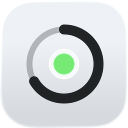
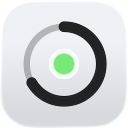
[优化] 图标环放大至Apple圆形网格安全框,中心尺寸保持
- 环半径 277→299(外缘 342 顶到官方圆形网格框),弧宽恢复 86,轨道 52
- 绿点(84)与背板(122)不随环放大,环与中心呼吸空间更足
- docs 四张文档图标按扁平管线同步重出

Changed region(s): [[0.1562, 0.1562, 0.8438, 0.8438]]

diff --git a/scripts/export_icon_layers.swift b/scripts/export_icon_layers.swift
@@ -14,13 +14,13 @@ guard args.count == 3, kinds.contains(args[1]) else {
 let canvas: CGFloat = 1024
 let center = CGPoint(x: canvas / 2, y: canvas / 2)
 
-// 几何规范：源码 18px 画布按比例放大到图标网格，整体再放大 15% 提升图标存在感
+// 几何规范：源码 18px 画布按比例放大到图标网格,环外缘顶到 Apple 圆形安全框(半径342)
 // 源码: ring dia 13, arc lineWidth ~2.31(75%负载), track 1.35, core dia ~3.95, backplate +1.8
-let ringRadius: CGFloat = 277
-let arcWidth: CGFloat = 80        // 86 收至 80,减弱圆头端点在缺口处的视觉膨胀
-let trackWidth: CGFloat = 48      // 1.35/2.31 × 80
-let dotRadius: CGFloat = 84       // 73 × 1.15
-let backplateRadius: CGFloat = 122 // 106 × 1.15
+let ringRadius: CGFloat = 299     // 299 + 86/2 = 342 = 官方圆形网格框
+let arcWidth: CGFloat = 86
+let trackWidth: CGFloat = 52      // 1.35/2.31 × 86
+let dotRadius: CGFloat = 84       // 中心保持不随环放大
+let backplateRadius: CGFloat = 122
 
 let colorSpace = CGColorSpace(name: CGColorSpace.sRGB)!
 guard let ctx = CGContext(data: nil, width: Int(canvas), height: Int(canvas),
